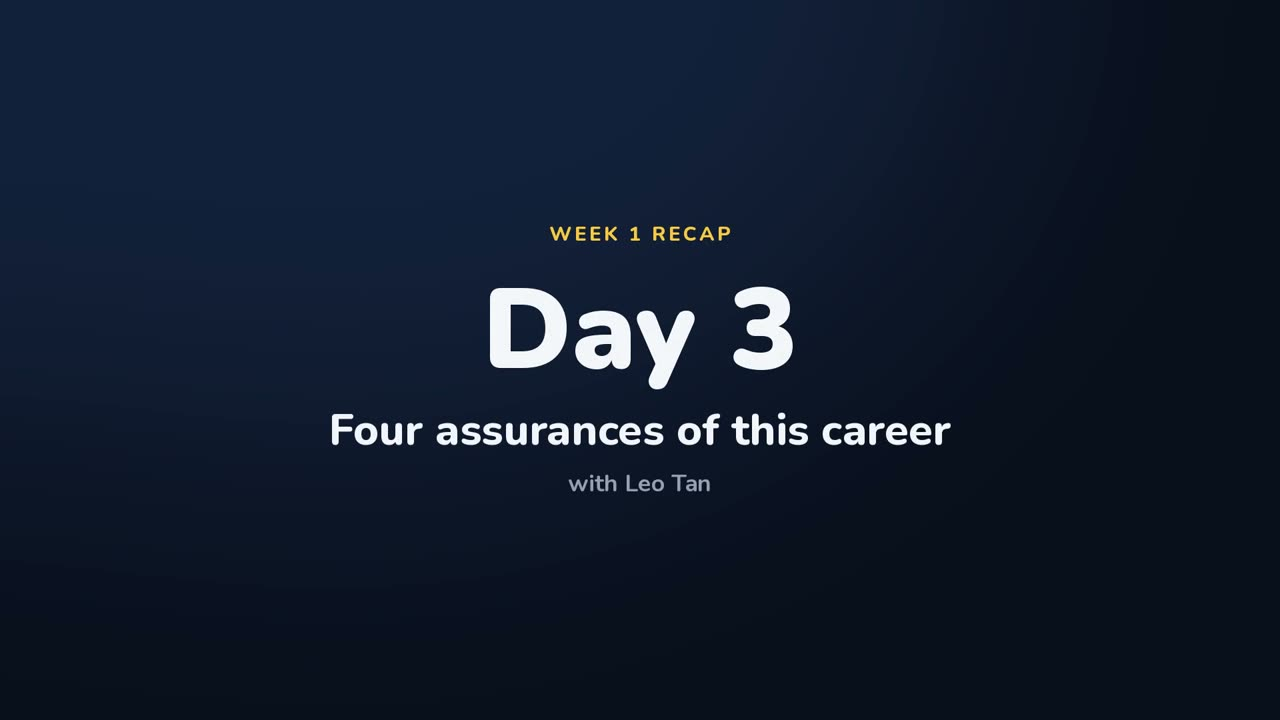
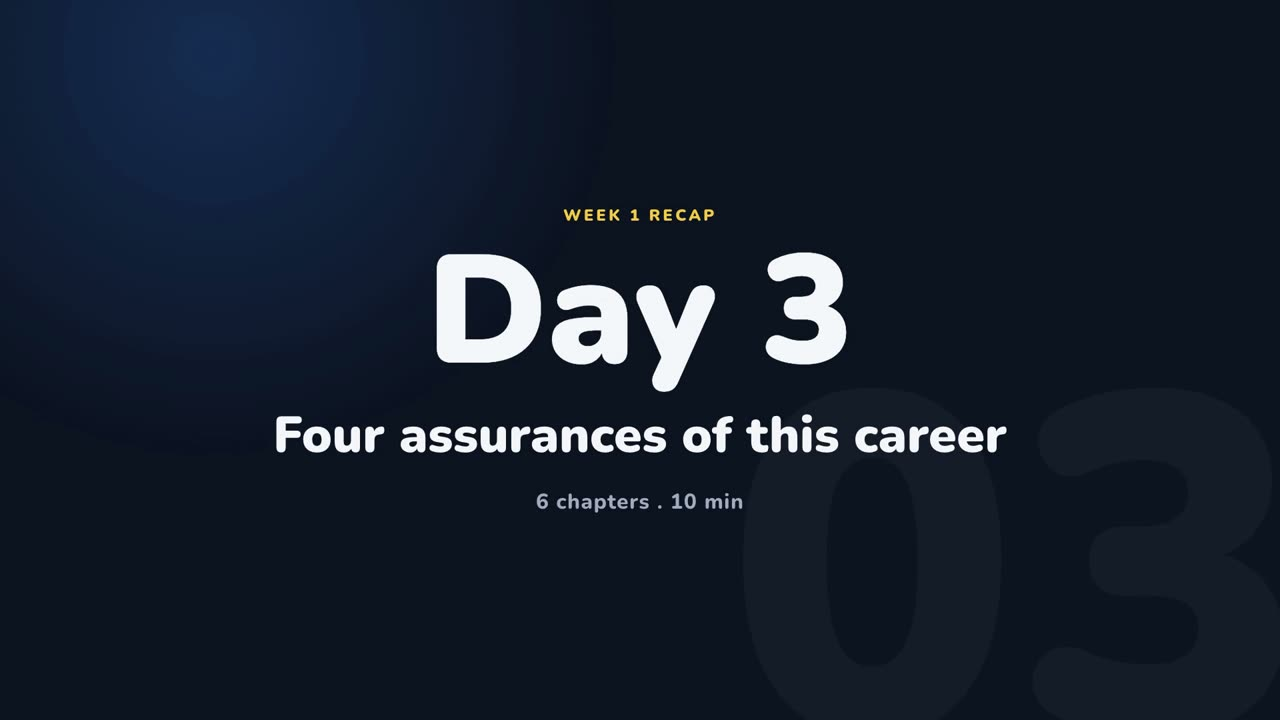
feat: Week 1 recap Days 2 to 6 get motion graphics, moving B-roll, cold opens and tighter cuts; Day 1 loses its page flashes

Changed region(s): [[0.3125, 0.3361, 0.6875, 0.55], [0.1875, 0.5806, 0.7812, 0.7333], [0.4062, 0.0, 0.5938, 0.3667]]

diff --git a/src/features/first-60-days/recapVideos.ts b/src/features/first-60-days/recapVideos.ts
@@ -13,42 +13,42 @@ export const RECAP_CHAPTERS: Record<string, RecapChapter[]> = {
   ],
   "recap-w1-d2": [
     ["The one-third rule", 0],
-    ["Temporary vs permanent risk", 111],
-    ["Three ways to manage risk", 167],
-    ["How much cover is enough", 265],
-    ["When to buy", 380],
-    ["The financial planning pyramid", 576],
+    ["Temporary vs permanent risk", 107],
+    ["Three ways to manage risk", 158],
+    ["How much cover is enough", 247],
+    ["When to buy", 351],
+    ["The financial planning pyramid", 525],
   ],
   "recap-w1-d3": [
     ["Autonomy, with responsibility", 0],
-    ["Personal development", 109],
-    ["Job security and passive income", 146],
-    ["Lifetime value of a client", 421],
-    ["Fulfilment", 497],
-    ["The year-1 trap", 601],
+    ["Personal development", 103],
+    ["Job security and passive income", 136],
+    ["Lifetime value of a client", 386],
+    ["Fulfilment", 456],
+    ["The year-1 trap", 550],
   ],
   "recap-w1-d4": [
     ["The two mindsets", 0],
-    ["Add the word yet", 52],
-    ["Sales is a marathon", 106],
-    ["The obstacle is the way", 234],
-    ["Do what others won't", 369],
-    ["Step out of your comfort zone", 451],
+    ["Add the word yet", 55],
+    ["Sales is a marathon", 103],
+    ["The obstacle is the way", 220],
+    ["Do what others won't", 341],
+    ["Step out of your comfort zone", 409],
   ],
   "recap-w1-d5": [
     ["Why this career matters", 0],
-    ["Come back to your why", 68],
-    ["Pre-frame with your why", 154],
-    ["The underdog advantage", 192],
-    ["Who your friends buy from", 299],
-    ["The moral compass", 449],
+    ["Come back to your why", 67],
+    ["Pre-frame with your why", 145],
+    ["The underdog advantage", 180],
+    ["Who your friends buy from", 277],
+    ["The moral compass", 412],
   ],
   "recap-w1-d6": [
     ["Why 1% a day beats heroics", 0],
-    ["Systems beat goals", 53],
-    ["The habit loop", 81],
-    ["Identity-based habits", 164],
-    ["Success habits: ASK", 247],
-    ["Week 1 wrap-up", 451],
+    ["Systems beat goals", 52],
+    ["The habit loop", 77],
+    ["Identity-based habits", 152],
+    ["Success habits: ASK", 228],
+    ["Week 1 wrap-up", 411],
   ],
 };

diff --git a/docs/first-60-days/week-1/recap.md b/docs/first-60-days/week-1/recap.md
@@ -2,7 +2,7 @@
 week: 1
 recap: true
 title: "Week 1 Recap - Foundation & Identity Shift"
-duration_minutes: 57
+duration_minutes: 53
 tags: [first-60-days, week-1, recap]
 ---
 
@@ -44,18 +44,18 @@ Pick three warm contacts this week. Send a simple message - "hey, I've started l
 
 </details>
 
-## Day 2 . Why financial planning matters (10 min)
+## Day 2 . Why financial planning matters (9 min)
 
 <video src="https://hgdbflprrficdoyxmdxe.supabase.co/functions/v1/recap-video-proxy?key=recap-w1-d2" poster="/first-60-days/recap/recap-w1-d2.jpg" controls playsinline preload="metadata" crossorigin="anonymous" style="width: 100%; max-width: 960px; border-radius: 12px; display: block; margin: 1rem auto;">
   <track kind="subtitles" srclang="en" label="English" default src="https://hgdbflprrficdoyxmdxe.supabase.co/functions/v1/recap-video-proxy?key=recap-w1-d2.vtt" />
 </video>
 
 - [`00:00`](#t=0) The one-third rule
-- [`01:51`](#t=111) Temporary vs permanent risk
-- [`02:47`](#t=167) Three ways to manage risk
-- [`04:25`](#t=265) How much cover is enough
-- [`06:20`](#t=380) When to buy
-- [`09:36`](#t=576) The financial planning pyramid
+- [`01:47`](#t=107) Temporary vs permanent risk
+- [`02:38`](#t=158) Three ways to manage risk
+- [`04:07`](#t=247) How much cover is enough
+- [`05:51`](#t=351) When to buy
+- [`08:45`](#t=525) The financial planning pyramid
 
 <details>
 <summary><strong>Lecture notes for Day 2</strong></summary>
@@ -88,18 +88,18 @@ A client who jumps to layer 2 without layer 1 is investing on a foundation that 
 
 </details>
 
-## Day 3 . Four assurances of this career (11 min)
+## Day 3 . Four assurances of this career (10 min)
 
 <video src="https://hgdbflprrficdoyxmdxe.supabase.co/functions/v1/recap-video-proxy?key=recap-w1-d3" poster="/first-60-days/recap/recap-w1-d3.jpg" controls playsinline preload="metadata" crossorigin="anonymous" style="width: 100%; max-width: 960px; border-radius: 12px; display: block; margin: 1rem auto;">
   <track kind="subtitles" srclang="en" label="English" default src="https://hgdbflprrficdoyxmdxe.supabase.co/functions/v1/recap-video-proxy?key=recap-w1-d3.vtt" />
 </video>
 
 - [`00:00`](#t=0) Autonomy, with responsibility
-- [`01:49`](#t=109) Personal development
-- [`02:26`](#t=146) Job security and passive income
-- [`07:01`](#t=421) Lifetime value of a client
-- [`08:17`](#t=497) Fulfilment
-- [`10:01`](#t=601) The year-1 trap
+- [`01:43`](#t=103) Personal development
+- [`02:16`](#t=136) Job security and passive income
+- [`06:26`](#t=386) Lifetime value of a client
+- [`07:36`](#t=456) Fulfilment
+- [`09:10`](#t=550) The year-1 trap
 
 <details>
 <summary><strong>Lecture notes for Day 3</strong></summary>
@@ -113,18 +113,18 @@ Why FCs stay despite the hard first year:
 
 </details>
 
-## Day 4 . Growth vs fixed mindset (9 min)
+## Day 4 . Growth vs fixed mindset (8 min)
 
 <video src="https://hgdbflprrficdoyxmdxe.supabase.co/functions/v1/recap-video-proxy?key=recap-w1-d4" poster="/first-60-days/recap/recap-w1-d4.jpg" controls playsinline preload="metadata" crossorigin="anonymous" style="width: 100%; max-width: 960px; border-radius: 12px; display: block; margin: 1rem auto;">
   <track kind="subtitles" srclang="en" label="English" default src="https://hgdbflprrficdoyxmdxe.supabase.co/functions/v1/recap-video-proxy?key=recap-w1-d4.vtt" />
 </video>
 
 - [`00:00`](#t=0) The two mindsets
-- [`00:52`](#t=52) Add the word yet
-- [`01:46`](#t=106) Sales is a marathon
-- [`03:54`](#t=234) The obstacle is the way
-- [`06:09`](#t=369) Do what others won't
-- [`07:31`](#t=451) Step out of your comfort zone
+- [`00:55`](#t=55) Add the word yet
+- [`01:43`](#t=103) Sales is a marathon
+- [`03:40`](#t=220) The obstacle is the way
+- [`05:41`](#t=341) Do what others won't
+- [`06:49`](#t=409) Step out of your comfort zone
 
 <details>
 <summary><strong>Lecture notes for Day 4</strong></summary>
@@ -144,11 +144,11 @@ The discomfort itself is the path, not a roadblock. Rejections, slow days, compl
 </video>
 
 - [`00:00`](#t=0) Why this career matters
-- [`01:08`](#t=68) Come back to your why
-- [`02:34`](#t=154) Pre-frame with your why
-- [`03:12`](#t=192) The underdog advantage
-- [`04:59`](#t=299) Who your friends buy from
-- [`07:29`](#t=449) The moral compass
+- [`01:07`](#t=67) Come back to your why
+- [`02:25`](#t=145) Pre-frame with your why
+- [`03:00`](#t=180) The underdog advantage
+- [`04:37`](#t=277) Who your friends buy from
+- [`06:52`](#t=412) The moral compass
 
 <details>
 <summary><strong>Lecture notes for Day 5</strong></summary>
@@ -158,18 +158,18 @@ The advisor stereotype - "the random caller from a roadshow" - exists because mo
 
 </details>
 
-## Day 6 . Forming habits that compound (10 min)
+## Day 6 . Forming habits that compound (9 min)
 
 <video src="https://hgdbflprrficdoyxmdxe.supabase.co/functions/v1/recap-video-proxy?key=recap-w1-d6" poster="/first-60-days/recap/recap-w1-d6.jpg" controls playsinline preload="metadata" crossorigin="anonymous" style="width: 100%; max-width: 960px; border-radius: 12px; display: block; margin: 1rem auto;">
   <track kind="subtitles" srclang="en" label="English" default src="https://hgdbflprrficdoyxmdxe.supabase.co/functions/v1/recap-video-proxy?key=recap-w1-d6.vtt" />
 </video>
 
 - [`00:00`](#t=0) Why 1% a day beats heroics
-- [`00:53`](#t=53) Systems beat goals
-- [`01:21`](#t=81) The habit loop
-- [`02:44`](#t=164) Identity-based habits
-- [`04:07`](#t=247) Success habits: ASK
-- [`07:31`](#t=451) Week 1 wrap-up
+- [`00:52`](#t=52) Systems beat goals
+- [`01:17`](#t=77) The habit loop
+- [`02:32`](#t=152) Identity-based habits
+- [`03:48`](#t=228) Success habits: ASK
+- [`06:51`](#t=411) Week 1 wrap-up
 
 <details>
 <summary><strong>Lecture notes for Day 6</strong></summary>
